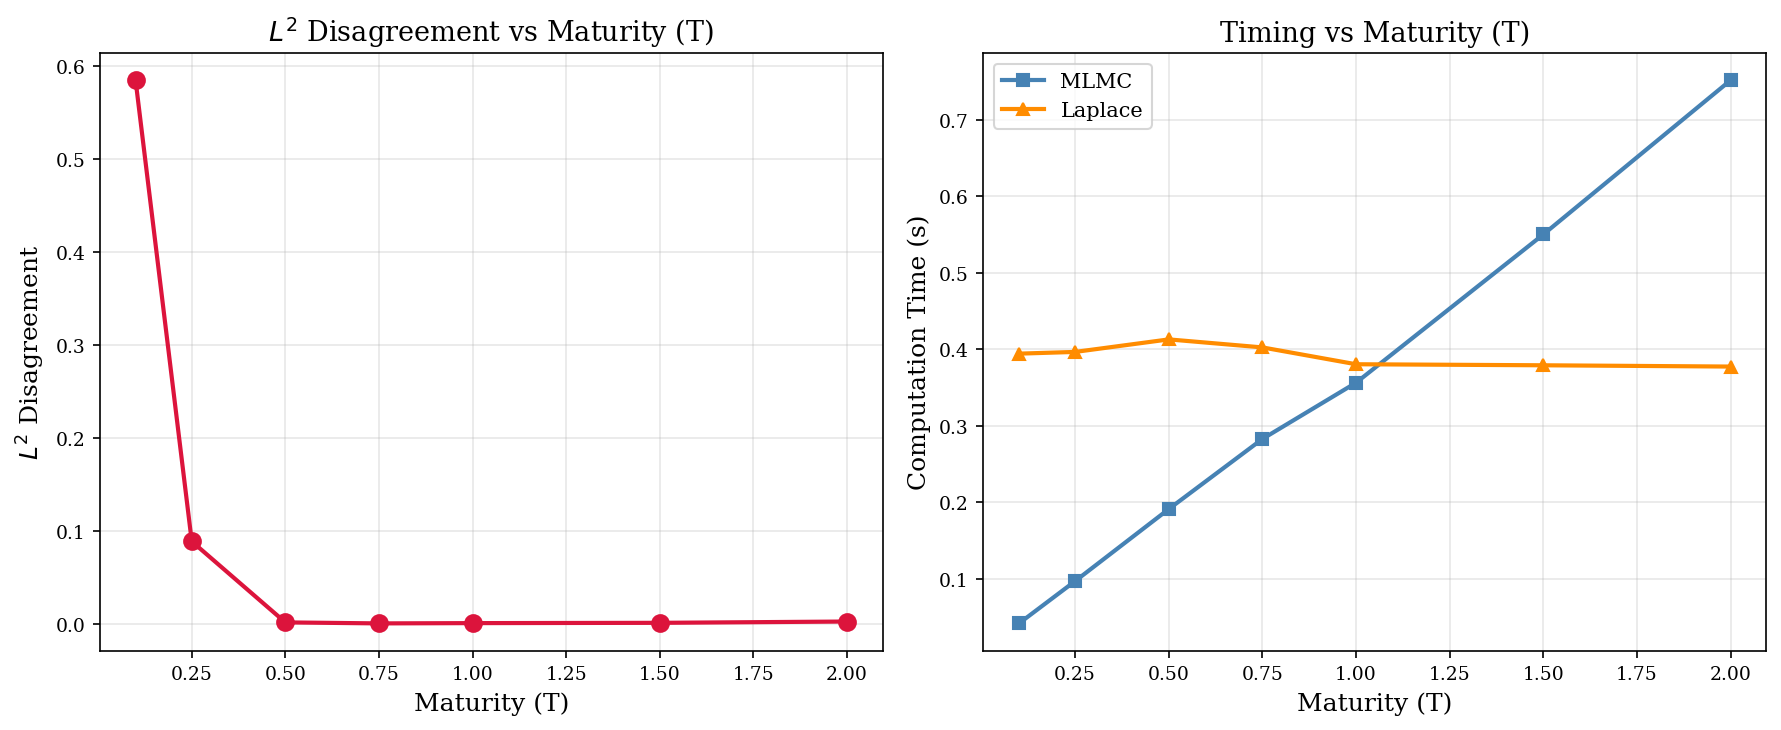
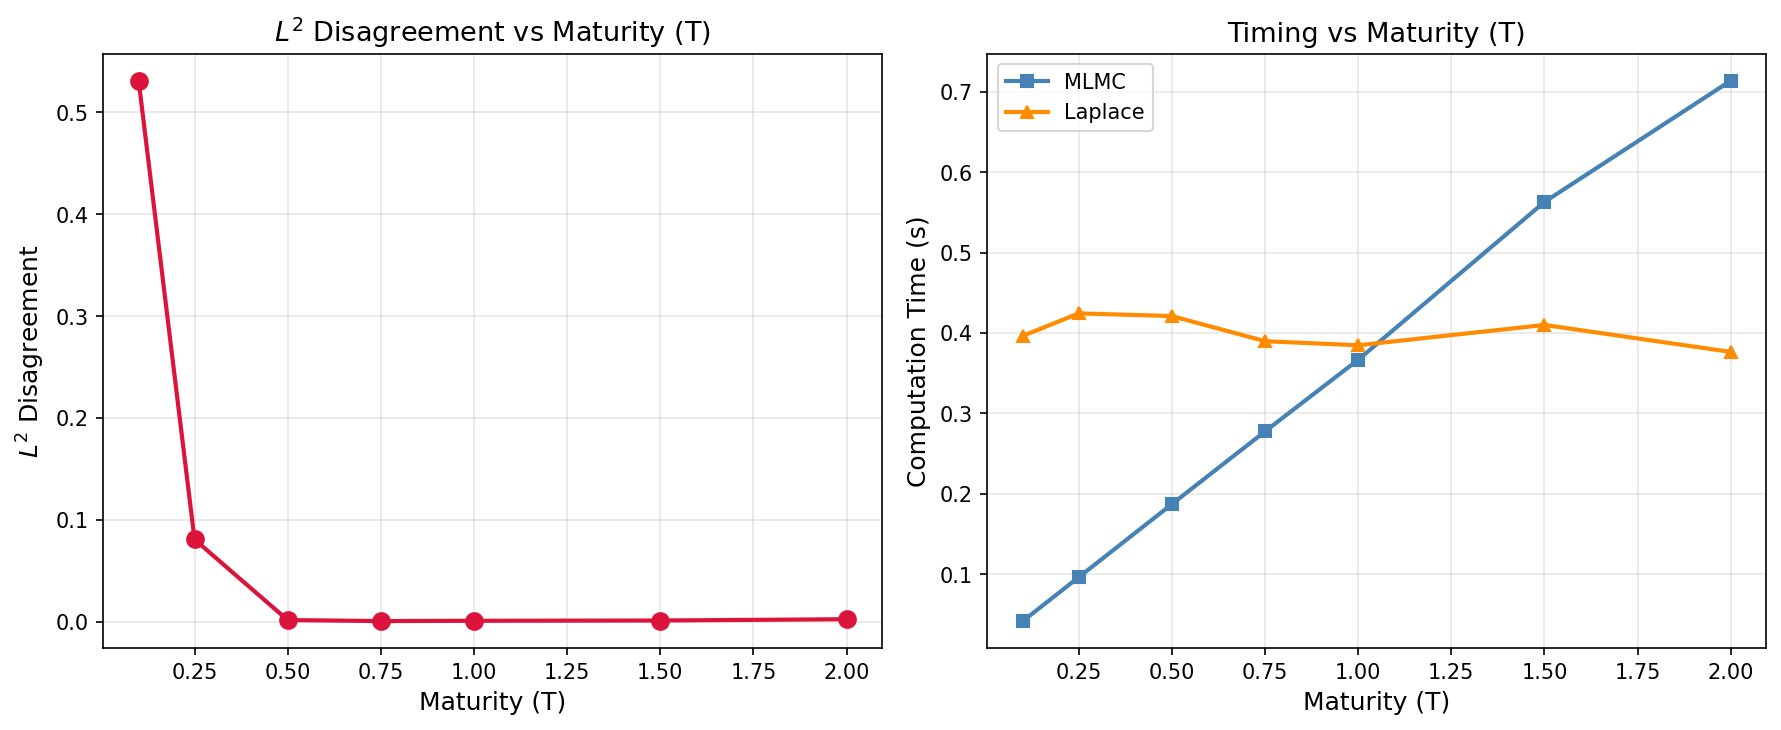
Improve L2 error calculation and update sensitivity results
Refined the L2 relative error calculation in compute_method_agreement to prevent blow-up for small surface values by adding a threshold. Added l2_absolute to the returned metrics. Updated exp5 sensitivity figures and tables to reflect new error calculations and timing results.

diff --git a/Comparison_Between_Methods/methods/common.py b/Comparison_Between_Methods/methods/common.py
@@ -197,8 +197,11 @@ def compute_method_agreement(
     mean_surface = (mlmc_valid + laplace_valid) / 2
     l2_error = np.sqrt(np.mean(diff ** 2))
     l2_norm = np.sqrt(np.mean(mean_surface ** 2))
-    l2_relative = l2_error / l2_norm if l2_norm > 0 else np.inf
     
+    # Blended error: threshold prevents blow-up when surface values are small
+    epsilon = 0.1 * l2_norm  # 1% of the norm as threshold
+    l2_relative = l2_error / (l2_norm + epsilon)
+        
     # L-infinity error
     linf_error = np.max(np.abs(diff))
     
@@ -250,6 +253,7 @@ def compute_method_agreement(
         "correlation": correlation,
         "pointwise_relative_disagreement": pointwise,
         "valid_fraction": valid_fraction,
+        "l2_absolute": l2_error,
     }
 
 

diff --git a/Comparison_Between_Methods/results/tables/exp5_parameter_sensitivity.md b/Comparison_Between_Methods/results/tables/exp5_parameter_sensitivity.md
@@ -7,63 +7,63 @@ Neither method is ground truth.
 
 | Value | L² Disagreement | L∞ Disagreement | MLMC Time (s) | Laplace Time (s) |
 |-------|-----------------|-----------------|---------------|------------------|
-| 0.05 | 0.2662 | 52.8423 | 0.19 | 0.37 |
-| 0.10 | 0.1265 | 131.2174 | 0.19 | 0.37 |
-| 0.15 | 0.0230 | 80.7279 | 0.19 | 0.37 |
-| 0.20 | 0.0025 | 13.0628 | 0.19 | 0.38 |
-| 0.25 | 0.0014 | 11.1904 | 0.20 | 0.37 |
-| 0.30 | 0.0014 | 18.0536 | 0.19 | 0.37 |
-| 0.40 | 0.0036 | 52.3581 | 0.19 | 0.37 |
-| 0.50 | 0.0068 | 155.6108 | 0.19 | 0.37 |
+| 0.05 | 0.2420 | 52.8423 | 0.18 | 0.37 |
+| 0.10 | 0.1150 | 131.2174 | 0.19 | 0.36 |
+| 0.15 | 0.0209 | 80.7279 | 0.19 | 0.37 |
+| 0.20 | 0.0023 | 13.0628 | 0.19 | 0.37 |
+| 0.25 | 0.0012 | 11.1904 | 0.18 | 0.35 |
+| 0.30 | 0.0013 | 18.0536 | 0.19 | 0.36 |
+| 0.40 | 0.0033 | 52.3581 | 0.19 | 0.35 |
+| 0.50 | 0.0062 | 155.6108 | 0.19 | 0.35 |
 
 ## Correlation ($\rho$)
 
 | Value | L² Disagreement | L∞ Disagreement | MLMC Time (s) | Laplace Time (s) |
 |-------|-----------------|-----------------|---------------|------------------|
-| -0.50 | 0.2416 | 444.5395 | 0.20 | 0.54 |
-| -0.25 | 0.0847 | 226.7637 | 0.19 | 0.47 |
-| 0.00 | 0.0251 | 100.0329 | 0.19 | 0.43 |
-| 0.25 | 0.0018 | 8.3136 | 0.19 | 0.41 |
-| 0.50 | 0.0018 | 10.3136 | 0.19 | 0.40 |
-| 0.70 | 0.0018 | 9.9174 | 0.19 | 0.39 |
-| 0.80 | 0.0019 | 10.6752 | 0.18 | 0.39 |
-| 0.90 | 0.0019 | 11.4065 | 0.19 | 0.39 |
+| -0.50 | 0.2196 | 444.5395 | 0.18 | 0.51 |
+| -0.25 | 0.0770 | 226.7637 | 0.19 | 0.47 |
+| 0.00 | 0.0228 | 100.0329 | 0.19 | 0.44 |
+| 0.25 | 0.0016 | 8.3136 | 0.18 | 0.40 |
+| 0.50 | 0.0017 | 10.3136 | 0.19 | 0.39 |
+| 0.70 | 0.0017 | 9.9174 | 0.19 | 0.42 |
+| 0.80 | 0.0017 | 10.6752 | 0.19 | 0.39 |
+| 0.90 | 0.0017 | 11.4065 | 0.19 | 0.42 |
 
 ## Interest Rate (r)
 
 | Value | L² Disagreement | L∞ Disagreement | MLMC Time (s) | Laplace Time (s) |
 |-------|-----------------|-----------------|---------------|------------------|
-| 0.00 | 0.0015 | 8.4994 | 0.19 | 0.42 |
-| 0.02 | 0.0016 | 7.7336 | 0.19 | 0.39 |
-| 0.05 | 0.0018 | 10.3136 | 0.19 | 0.40 |
-| 0.08 | 0.0021 | 9.1531 | 0.19 | 0.42 |
-| 0.10 | 0.0023 | 10.0367 | 0.19 | 0.39 |
-| 0.12 | 0.0026 | 10.7061 | 0.19 | 0.42 |
-| 0.15 | 0.0030 | 9.3006 | 0.19 | 0.40 |
+| 0.00 | 0.0013 | 8.4994 | 0.19 | 0.42 |
+| 0.02 | 0.0015 | 7.7336 | 0.19 | 0.42 |
+| 0.05 | 0.0017 | 10.3136 | 0.19 | 0.40 |
+| 0.08 | 0.0019 | 9.1531 | 0.19 | 0.42 |
+| 0.10 | 0.0021 | 10.0367 | 0.18 | 0.39 |
+| 0.12 | 0.0024 | 10.7061 | 0.19 | 0.42 |
+| 0.15 | 0.0027 | 9.3006 | 0.18 | 0.42 |
 
 ## Maturity (T)
 
 | Value | L² Disagreement | L∞ Disagreement | MLMC Time (s) | Laplace Time (s) |
 |-------|-----------------|-----------------|---------------|------------------|
-| 0.10 | 0.5844 | 1793.5691 | 0.04 | 0.39 |
-| 0.25 | 0.0889 | 369.6063 | 0.10 | 0.40 |
-| 0.50 | 0.0018 | 10.3136 | 0.19 | 0.41 |
-| 0.75 | 0.0007 | 4.2125 | 0.28 | 0.40 |
-| 1.00 | 0.0010 | 6.3758 | 0.36 | 0.38 |
-| 1.50 | 0.0014 | 6.0578 | 0.55 | 0.38 |
-| 2.00 | 0.0028 | 16.1757 | 0.75 | 0.38 |
+| 0.10 | 0.5312 | 1793.5691 | 0.04 | 0.40 |
+| 0.25 | 0.0808 | 369.6063 | 0.10 | 0.42 |
+| 0.50 | 0.0017 | 10.3136 | 0.19 | 0.42 |
+| 0.75 | 0.0007 | 4.2125 | 0.28 | 0.39 |
+| 1.00 | 0.0010 | 6.3758 | 0.37 | 0.38 |
+| 1.50 | 0.0012 | 6.0578 | 0.56 | 0.41 |
+| 2.00 | 0.0025 | 16.1757 | 0.71 | 0.38 |
 
 ## Moneyness (K/S₀)
 
 | Value | L² Disagreement | L∞ Disagreement | MLMC Time (s) | Laplace Time (s) |
 |-------|-----------------|-----------------|---------------|------------------|
-| 0.80 | 0.0018 | 10.3136 | 0.19 | 0.40 |
-| 0.90 | 0.0018 | 10.3136 | 0.19 | 0.42 |
-| 0.95 | 0.0018 | 10.3136 | 0.19 | 0.40 |
-| 1.00 | 0.0018 | 10.3136 | 0.19 | 0.40 |
-| 1.05 | 0.0018 | 10.3136 | 0.19 | 0.38 |
-| 1.10 | 0.0018 | 10.3136 | 0.19 | 0.41 |
-| 1.20 | 0.0018 | 10.3136 | 0.19 | 0.42 |
+| 0.80 | 0.0017 | 10.3136 | 0.19 | 0.40 |
+| 0.90 | 0.0017 | 10.3136 | 0.19 | 0.39 |
+| 0.95 | 0.0017 | 10.3136 | 0.19 | 0.39 |
+| 1.00 | 0.0017 | 10.3136 | 0.19 | 0.42 |
+| 1.05 | 0.0017 | 10.3136 | 0.19 | 0.41 |
+| 1.10 | 0.0017 | 10.3136 | 0.19 | 0.42 |
+| 1.20 | 0.0017 | 10.3136 | 0.19 | 0.39 |
 
 ## Key Observations
 
